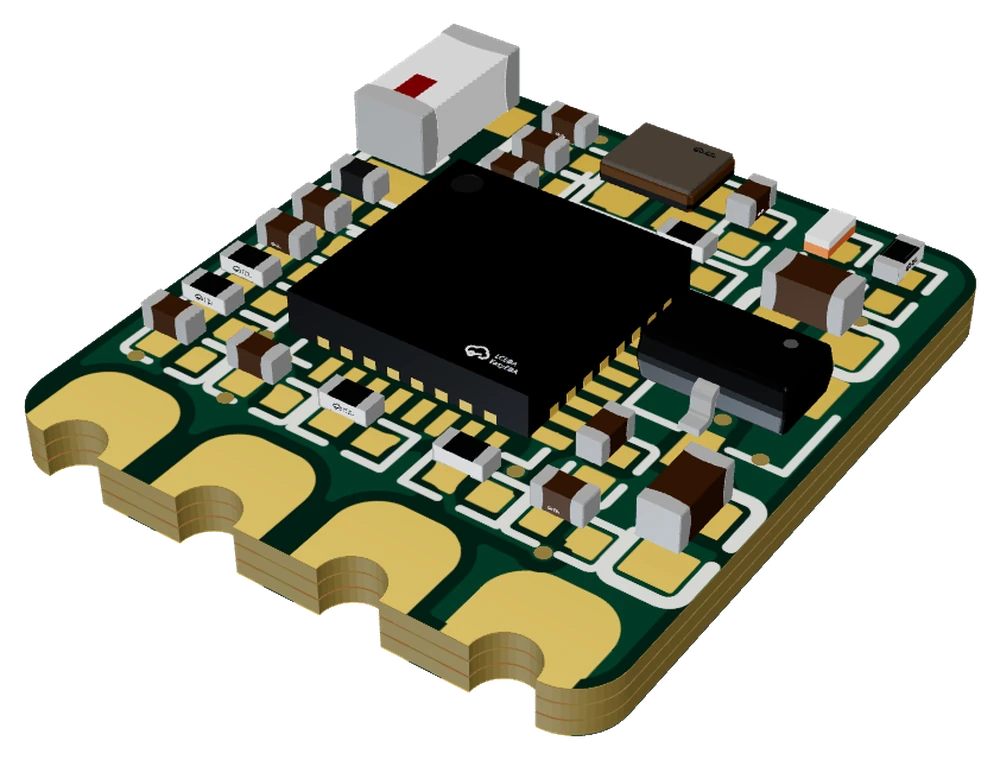
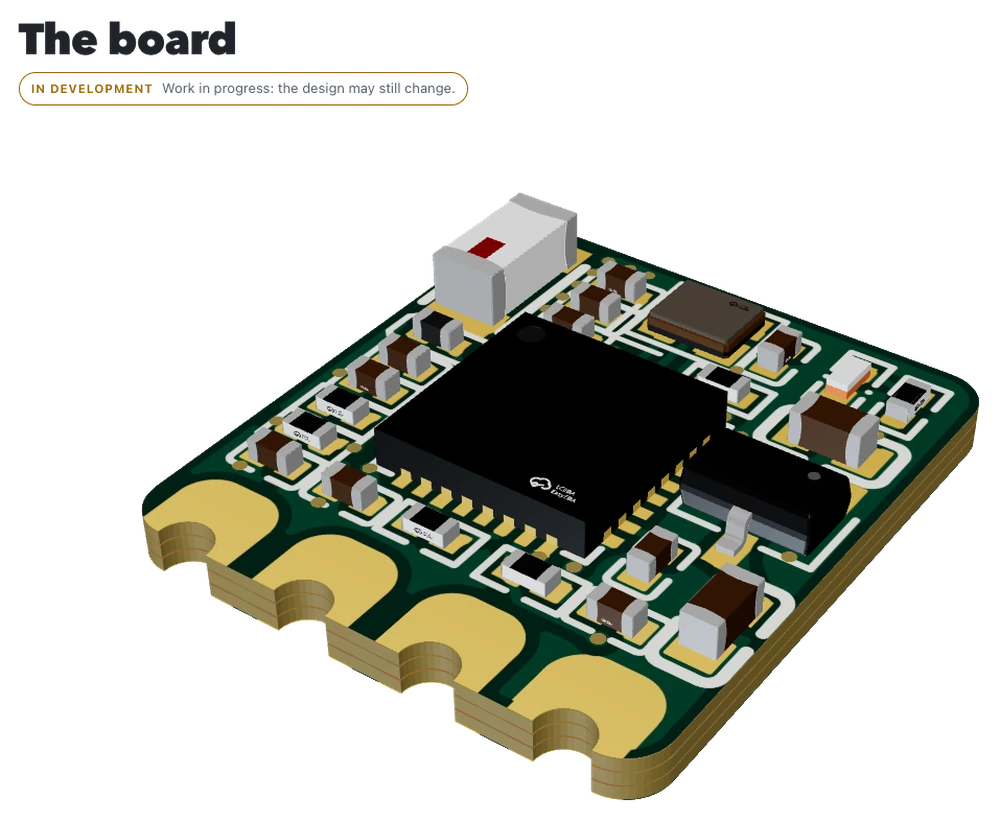
The board: components sit on the board (fix 0.5 mm height offset)

diff --git a/docs/assets/board/board.js b/docs/assets/board/board.js
@@ -106,8 +106,9 @@ function start() {
     const spread = 1 + cur.e2 * 5.2;
     layers.forEach((l) => { l.p.position.y = l.y0 * spread + (l.y0 > 0 ? 0.004 : -0.004); });
     slabs.forEach((s, i) => { s.position.y = ((LY[i] + LY[i + 1]) / 2) * spread; });
-    top.position.y = LY[0] * spread + cur.e1 * 2.4;
-    bottomParts.position.y = LY[3] * spread - cur.e1 * 2.4;
+    // part meshes already carry their own height above the board surface (y = 0.5 at the top face)
+    top.position.y = LY[0] * (spread - 1) + cur.e1 * 2.4;
+    bottomParts.position.y = LY[3] * (spread - 1) - cur.e1 * 2.4;
     const az = (cur.az + off.az) * Math.PI / 180;
     const pol = Math.min(176, Math.max(4, cur.pol + off.pol)) * Math.PI / 180;
     const d = cur.d * (camera.aspect < 1 ? 2.2 : 1.32);

diff --git a/guide-src/web/board/board.js b/guide-src/web/board/board.js
@@ -106,8 +106,9 @@ function start() {
     const spread = 1 + cur.e2 * 5.2;
     layers.forEach((l) => { l.p.position.y = l.y0 * spread + (l.y0 > 0 ? 0.004 : -0.004); });
     slabs.forEach((s, i) => { s.position.y = ((LY[i] + LY[i + 1]) / 2) * spread; });
-    top.position.y = LY[0] * spread + cur.e1 * 2.4;
-    bottomParts.position.y = LY[3] * spread - cur.e1 * 2.4;
+    // part meshes already carry their own height above the board surface (y = 0.5 at the top face)
+    top.position.y = LY[0] * (spread - 1) + cur.e1 * 2.4;
+    bottomParts.position.y = LY[3] * (spread - 1) - cur.e1 * 2.4;
     const az = (cur.az + off.az) * Math.PI / 180;
     const pol = Math.min(176, Math.max(4, cur.pol + off.pol)) * Math.PI / 180;
     const d = cur.d * (camera.aspect < 1 ? 2.2 : 1.32);
